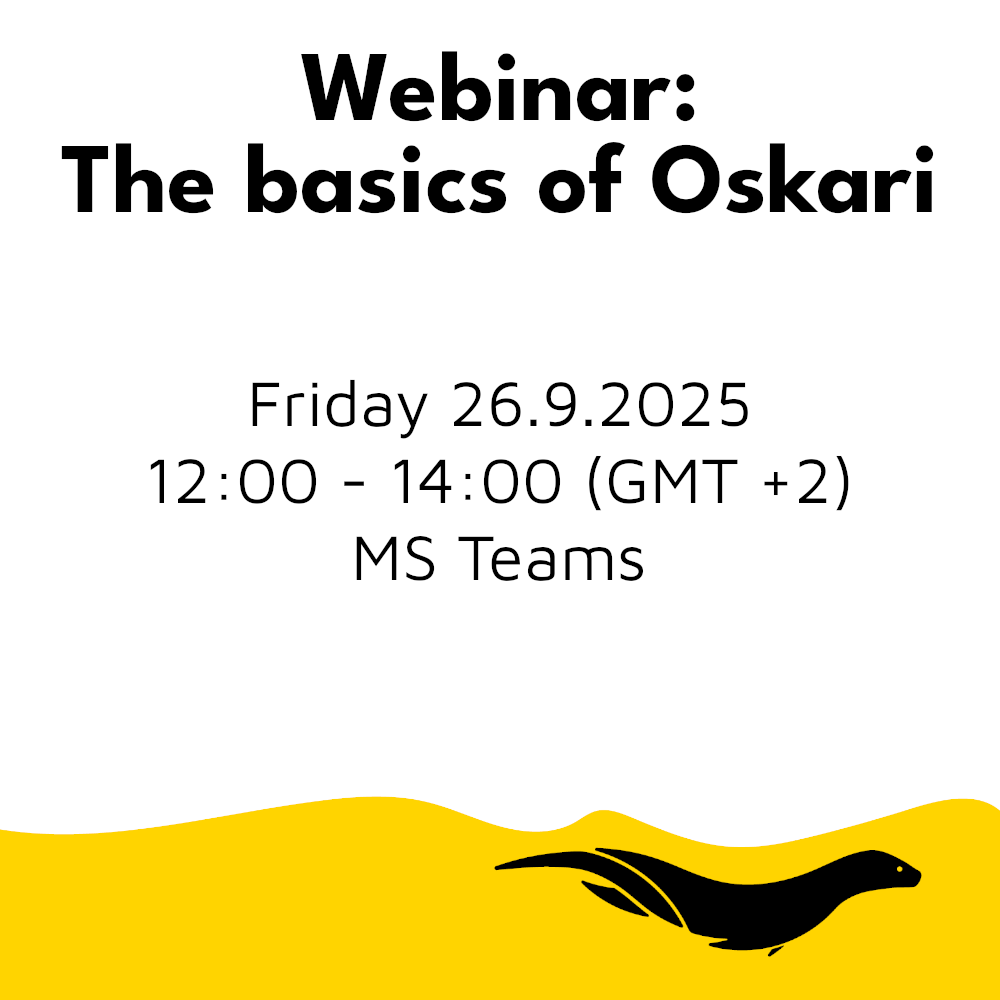
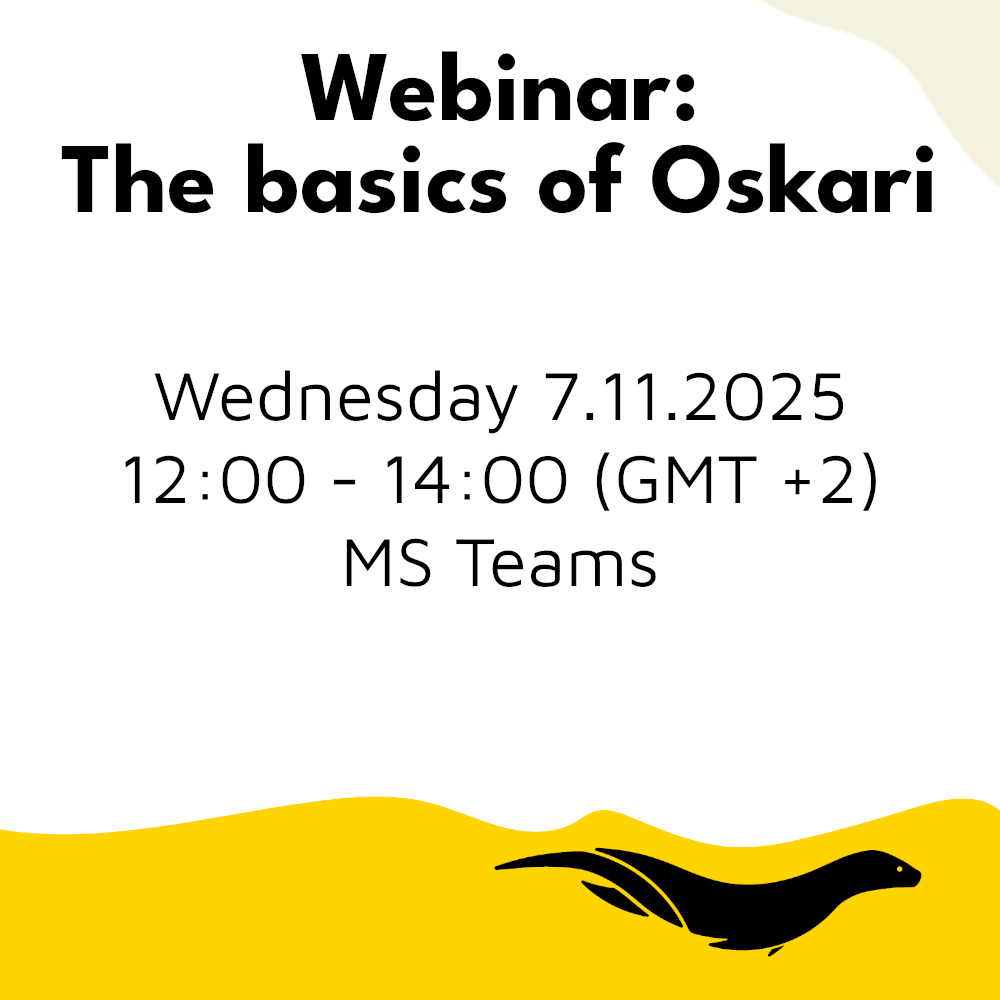
Update webinar blog, add Community member blog

Changed region(s): [[0.124, 0.372, 0.899, 0.589], [0.775, 0.0, 1.0, 0.186], [0.341, 0.527, 0.434, 0.589]]

diff --git a/_content/blog/2025-10-21_Oskari_community_member.md b/_content/blog/2025-10-21_Oskari_community_member.md
@@ -1,0 +1,37 @@
+---
+layout: post
+title: 'Why to join Oskari JDF?'
+excerpt: 'Joint Development Forum of Oskari meets on a monthly basis. What are the benefits of being a member of JDF?'
+date: 2025-10-21 09:30:00 +0200
+categories: [JDF]
+tags:
+  - blog
+---
+
+# Why to join Oskari JDF?
+
+Oskari’s Joint Development Forum (JDF) consists of organisations that use Oskari for their map services and have an interest in developing Oskari together. By joining the JDF, organizations can support both the Oskari software and its community. The continuity and maintenance of Oskari depends on its active use and on member contributions, and are supported through communication and other means.
+
+The JDF is formed by several organizational members who pay an annual fee that covers Oskari’s communication, provides technical assistance from NLS FI and ensures the ongoing development of the software. Each year, 1-2 organizations are selected as **community members** who may participate in the JDF free of charge.
+
+This year the community chose Ubigu Ltd. and the city of Joensuu as the new community members. As we welcome the new community members, we give our warmest thanks to Lounaistieto who used to be a community member and was a part of the Oskari community since the very beginning of the JDF. This means a whopping, nearly 20 year-long membership! 
+
+We interviewed Natalia Räikkönen from Lounaistieto and asked about her experience in the community.
+
+The Oskari service of Lounaistieto can be found [here](https://karttapalvelu.lounaistieto.fi/). Virma map service, based on Lounaistieto's Oskari instance, can be found [here](https://kartta.virma.fi/).
+
+![A screenshot of Virma map service.](image.png)
+
+## Being a community member of JDF
+
+“Via the JDF group we have gotten development ideas, support and solutions to our problems with our map service. It has also been very valuable to have had the chance to network with other agencies. We have also had some influence on the development trends of Oskari in general.
+
+The membership gave us a chance to see examples of others’ Oskari implementations, get peer support and develop our own service better than before. That meant we could benefit from Oskari in more diverse ways and build map services that are tailored for the agencies in our area.
+
+Networking, sharing information and peer support were significant benefits. In addition, we got to use tested solutions and code, which saved us time and resources when we were developing our services.
+
+In the beginning Lounaistieto used Oskari as a simple map service. As of now, we have done different embedded maps based on the geoportal - this includes the waste disposal map for the website of Lounais-Suomen Jätehuolto Oy (The Waste Disposal Southwest Finland Ltd) and a water protection map for the water protection agencies in the area. The Virma map that uses local recreational information is a web browser based application that is based on Lounaistieto’s Oskari geoportal and implements the RPC technology.
+
+In the future we will continue to use Oskari as a part of local information production and communications. The service will be developed according to needs and Oskari will remain an important part of Lounaistieto’s digital services.
+
+The JDF offers an excellent place to influence, develop and get support for making the most of Oskari. Especially for those who are building a new map service the membership can bring a chance to save time and resources. One can get help and tips easily. As a part of the community one doesn’t need to act alone - one should join in if one wishes to develop map services in a cost-effective way in a competent and open network.”

diff --git a/_content/blog/2025-10-21-Oskari_webinar_2025.md b/_content/blog/2025-10-21-Oskari_webinar_2025.md
@@ -1,0 +1,38 @@
+---
+layout: post
+title:  "Oskari Webinar: The basics of Oskari 7.11.2025 12:00 - 14:00 (GMT +2)"
+excerpt: "Join us for a webinar in English about the basics of Oskari. "
+date:   2025-10-21  9:00:00 +0300
+categories: [news]
+tags:
+  - blog
+---
+
+# Oskari Webinar: The basics of Oskari 7.11.2025 12:00 - 14:00 (GMT +2)
+
+**Add the Teams meeting to your calendar [here.](https://teams.microsoft.com/dl/launcher/launcher.html?url=%2F_%23%2Fl%2Fmeetup-join%2F19%3Ameeting_ZjVhY2ZiODQtYTE3OC00NTMwLWFmYjQtNjVhYzZjOGY1YjZl%40thread.v2%2F0%3Fcontext%3D%257b%2522Tid%2522%253a%2522c4f8a632-5580-4a1c-9237-1d5a571b71fa%2522%252c%2522Oid%2522%253a%2522d5b7ca34-5fe9-4f1c-9b04-22ced62aa62d%2522%257d%26anon%3Dtrue&type=meetup-join&deeplinkId=a432cb07-95e8-4d38-952e-7fe168a658d2&directDl=true&msLaunch=true&enableMobilePage=true&suppressPrompt=true)**
+
+What is Oskari? How does it work? How would my organisation benefit from using Oskari? Join us for a webinar aimed for those who have little or no prior experience with Oskari. We will present the possibilities of Oskari for end-users, admins and developers.
+
+With Oskari you can implement a geospatial service that can be used on your web browser either via PC or a mobile device. With Oskari you can show you map layers by various different organizations, restrict the access to certain layers only to users with certain rights and publish desired maps to other web sites as embedded maps.
+
+## The content of the webinar
+
+We will guide you through the basics of Oskari, show how it works and answer your questions. Feel free to ask us your questions during the event or send them in beforehand [using this form](https://forms.gle/q5YoAdB78SN8TwZMA).
+
+If you want to try out Oskari before the webinar, try out the demo of Oskari [here](https://demo.oskari.org/).
+
+**The webinar will be held in English.**
+
+Initial schedule:
+
+12.00 Oskari for end-users (Juho Rekilä, communications coordinator)
+
+12.40 Break
+
+12.45 Oskari for Admins and Purchasers (Arto Sinkkonen, NLS FI)
+
+13.15 Oskari for developers (Sami Mäkinen, technical coordinator)
+
+
+![A decorative picture for the event.](/resources/2025/webinar_2025.png)
